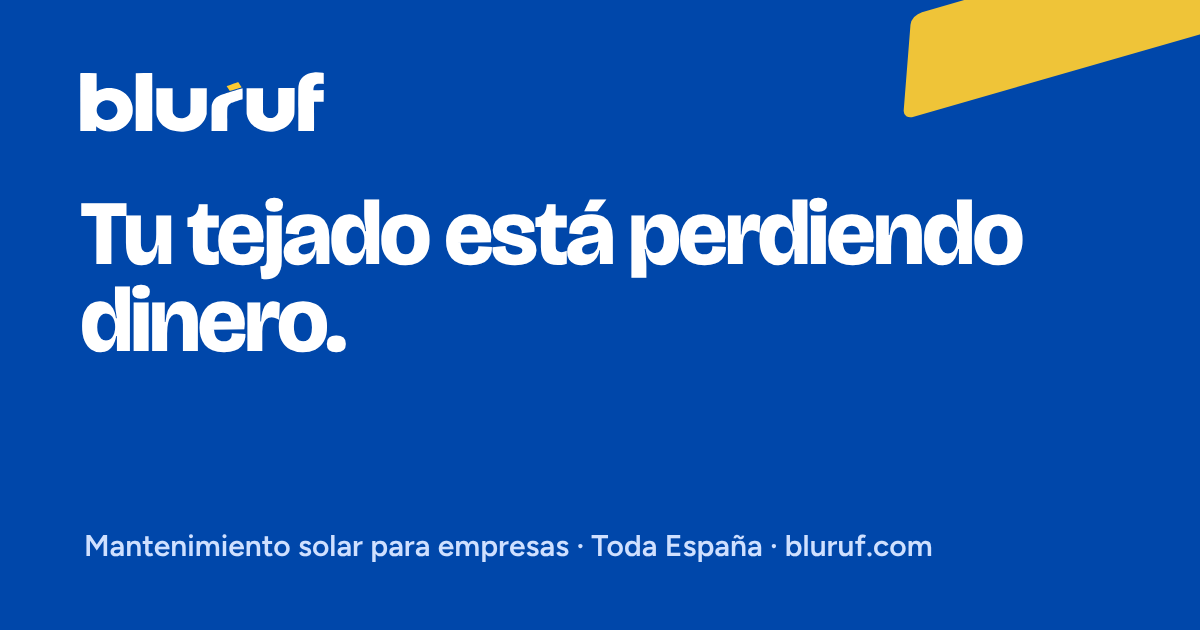
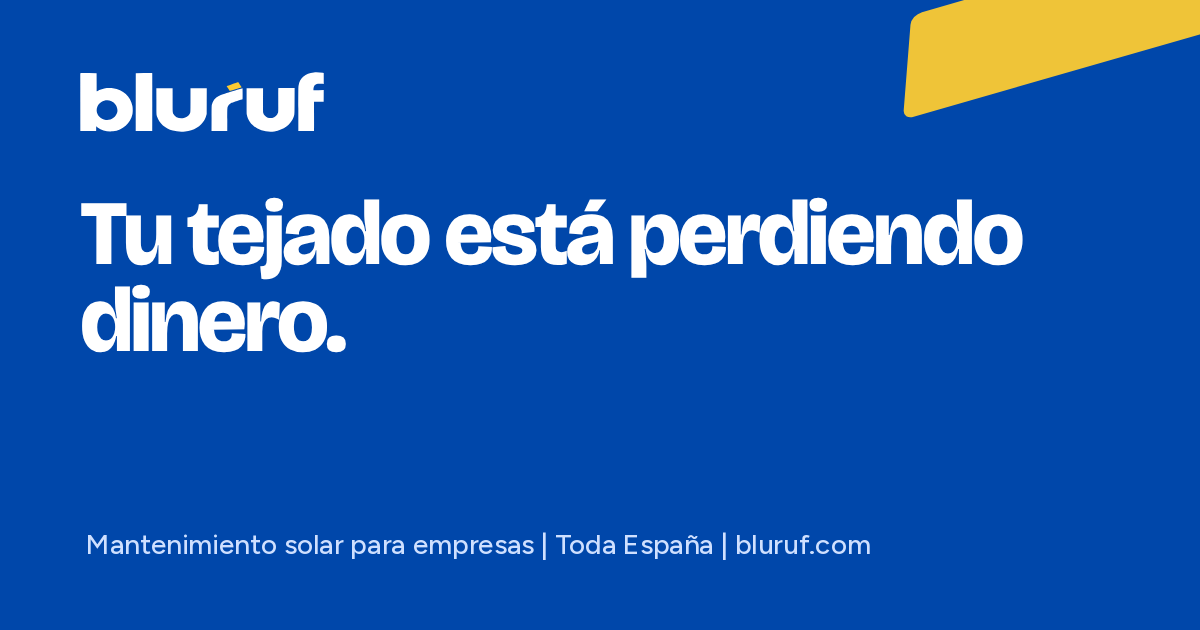
Add files via upload

Changed region(s): [[0.0617, 0.8444, 0.7708, 0.9048]]

diff --git a/index.html b/index.html
@@ -3,7 +3,7 @@
 <head>
 <meta charset="utf-8">
 <meta name="viewport" content="width=device-width, initial-scale=1">
-<title>BluRuf · Mantenimiento solar para empresas en España</title>
+<title>BluRuf | Mantenimiento solar para empresas en España</title>
 <meta name="description" content="Tu tejado solar está perdiendo dinero. Diagnóstico gratuito en 48 h, limpieza, inspección e informe para naves y empresas en toda España.">
 <link rel="canonical" href="https://bluruf.com/">
 <meta property="og:image:width" content="1200">
@@ -12,7 +12,7 @@
 <meta property="og:locale" content="es_ES">
 <meta property="og:site_name" content="BluRuf">
 <meta property="og:url" content="https://bluruf.com/">
-<meta property="og:title" content="BluRuf · Tu tejado solar está perdiendo dinero">
+<meta property="og:title" content="BluRuf | Tu tejado solar está perdiendo dinero">
 <meta property="og:description" content="Diagnóstico gratuito de tu instalación en 48 h. Mantenimiento solar para naves y empresas en toda España.">
 <meta property="og:image" content="https://bluruf.com/og.png">
 <meta name="twitter:card" content="summary_large_image">
@@ -211,7 +211,10 @@ form .btn{width:100%}
 @media(max-width:760px){.foot .logo{display:flex;justify-content:center}.fcols{grid-template-columns:minmax(0,1fr);gap:34px}.fbottom{justify-content:center;text-align:center}}
 </style>
 <script type="application/ld+json">
-{"@context":"https://schema.org","@type":"LocalBusiness","@id":"https://bluruf.com/#empresa","name":"BluRuf","url":"https://bluruf.com/","logo":"https://bluruf.com/img/logo.png","image":"https://bluruf.com/og.png","description":"Mantenimiento, limpieza e inspección de instalaciones solares para empresas en toda España. Diagnóstico gratuito en 48 h.","email":"info@bluruf.com","telephone":"+34 711 24 12 90","address":{"@type":"PostalAddress","streetAddress":"Calle Gobelas, 35, planta 1","postalCode":"28023","addressLocality":"Madrid","addressRegion":"Comunidad de Madrid","addressCountry":"ES"},"areaServed":{"@type":"Country","name":"España"},"alternateName":["Bluruf","BluRuf Solar","Bluruf mantenimiento solar"],"sameAs":["https://www.linkedin.com/company/bluruf"],"founder":{"@type":"Person","name":"Pablo Madrid de los Reyes"},"knowsAbout":["Limpieza de placas solares","Mantenimiento fotovoltaico","Inspección de instalaciones solares"]}
+{"@context":"https://schema.org","@type":"LocalBusiness","@id":"https://bluruf.com/#empresa","name":"BluRuf","url":"https://bluruf.com/","logo":"https://bluruf.com/img/logo.png","image":["https://bluruf.com/img/logo-cuadrado.png","https://bluruf.com/img/logo-4x3.png","https://bluruf.com/og.png"],"description":"Mantenimiento, limpieza e inspección de instalaciones solares para empresas en toda España. Diagnóstico gratuito en 48 h.","email":"info@bluruf.com","telephone":"+34 711 24 12 90","address":{"@type":"PostalAddress","streetAddress":"Calle Gobelas, 35, planta 1","postalCode":"28023","addressLocality":"Madrid","addressRegion":"Comunidad de Madrid","addressCountry":"ES"},"areaServed":{"@type":"Country","name":"España"},"alternateName":["Bluruf","BluRuf Solar","Bluruf mantenimiento solar"],"sameAs":["https://www.linkedin.com/company/bluruf"],"founder":{"@type":"Person","name":"Pablo Madrid de los Reyes"},"knowsAbout":["Limpieza de placas solares","Mantenimiento fotovoltaico","Inspección de instalaciones solares"]}
+</script>
+<script type="application/ld+json">
+{"@context":"https://schema.org","@type":"WebSite","@id":"https://bluruf.com/#web","name":"BluRuf","alternateName":["Bluruf","bluruf.com"],"url":"https://bluruf.com/","inLanguage":"es-ES","publisher":{"@id":"https://bluruf.com/#empresa"}}
 </script>
 </head>
 <body>
@@ -223,12 +226,12 @@ form .btn{width:100%}
 <main>
 <section class="hero"><div class="wrap">
   <h1 class="display">Tu tejado solar <span>está perdiendo dinero.</span></h1>
-  <p class="lead">Polvo, aves y contaminación restan producción a las placas de tu nave sin que nadie lo vea desde abajo. Lo medimos gratis y, si compensa, las dejamos como el primer día.</p>
+  <p class="lead">Polvo, aves y contaminación restan producción a las placas de tu nave sin que nadie lo vea desde abajo. En BluRuf lo medimos gratis y, si compensa, las dejamos como el primer día.</p>
   <div class="ctas">
     <a href="#contacto" class="btn btn-blue">Pedir diagnóstico gratis →</a>
     <a href="#calculadora" class="btn btn-line">Calcular cuánto pierdo</a>
   </div>
-  <p class="trust"><b>Gratis</b> · Sin compromiso · Resultado en <b>48 h</b></p>
+  <p class="trust"><b>Gratis</b> | Sin compromiso | Resultado en <b>48 h</b></p>
 
   <div class="stats">
     <div class="stat"><b>5–10 %</b><strong>de producción perdida por suciedad</strong><p>Rango habitual en cubiertas industriales sin limpieza periódica.</p></div>
@@ -301,7 +304,7 @@ form .btn{width:100%}
       <div class="p-sec"><span>Producción diaria (kWh)</span><em><span><i style="background:#B9C4DA"></i>Antes</span><span><i style="background:#0047AA"></i>Después</span><span><i style="background:#FCCB31"></i>Esperada</span></em></div>
       <svg viewBox="0 0 520 170" class="chart" role="img" aria-label="Producción diaria real frente a la esperada, antes y después de la limpieza"><line x1="28" x2="520" y1="150.0" y2="150.0" stroke="#E6EBF4"/><text x="22" y="153.0" text-anchor="end">0</text><line x1="28" x2="520" y1="111.1" y2="111.1" stroke="#E6EBF4"/><text x="22" y="114.1" text-anchor="end">200</text><line x1="28" x2="520" y1="72.3" y2="72.3" stroke="#E6EBF4"/><text x="22" y="75.3" text-anchor="end">400</text><line x1="28" x2="520" y1="33.4" y2="33.4" stroke="#E6EBF4"/><text x="22" y="36.4" text-anchor="end">600</text><rect x="32.0" y="42.4" width="27.1" height="107.6" rx="2" fill="#B9C4DA"/><rect x="67.1" y="45.3" width="27.1" height="104.7" rx="2" fill="#B9C4DA"/><rect x="102.3" y="38.5" width="27.1" height="111.5" rx="2" fill="#B9C4DA"/><rect x="137.4" y="36.3" width="27.1" height="113.7" rx="2" fill="#B9C4DA"/><rect x="172.6" y="41.2" width="27.1" height="108.8" rx="2" fill="#B9C4DA"/><rect x="207.7" y="46.4" width="27.1" height="103.6" rx="2" fill="#B9C4DA"/><rect x="242.9" y="39.1" width="27.1" height="110.9" rx="2" fill="#B9C4DA"/><rect x="278.0" y="24.1" width="27.1" height="125.9" rx="2" fill="#0047AA"/><rect x="313.1" y="29.0" width="27.1" height="121.0" rx="2" fill="#0047AA"/><rect x="348.3" y="25.5" width="27.1" height="124.5" rx="2" fill="#0047AA"/><rect x="383.4" y="30.9" width="27.1" height="119.1" rx="2" fill="#0047AA"/><rect x="418.6" y="26.8" width="27.1" height="123.2" rx="2" fill="#0047AA"/><rect x="453.7" y="24.3" width="27.1" height="125.7" rx="2" fill="#0047AA"/><rect x="488.9" y="29.9" width="27.1" height="120.1" rx="2" fill="#0047AA"/><path d="M45.6 31.1 L80.7 33.8 L115.9 25.7 L151.0 22.7 L186.1 27.6 L221.3 33.0 L256.4 24.1 L291.6 21.6 L326.7 26.2 L361.9 23.7 L397.0 28.0 L432.1 24.9 L467.3 22.0 L502.4 27.0" fill="none" stroke="#FCCB31" stroke-width="2.5" stroke-dasharray="5 4"/><line x1="274.0" x2="274.0" y1="8" y2="150" stroke="#061A47" stroke-width="1.2" stroke-dasharray="3 3"/><text x="279.0" y="16" class="mk">Limpieza</text><text x="45.6" y="165" text-anchor="middle">1</text><text x="80.7" y="165" text-anchor="middle">2</text><text x="115.9" y="165" text-anchor="middle">3</text><text x="151.0" y="165" text-anchor="middle">4</text><text x="186.1" y="165" text-anchor="middle">5</text><text x="221.3" y="165" text-anchor="middle">6</text><text x="256.4" y="165" text-anchor="middle">7</text><text x="291.6" y="165" text-anchor="middle">8</text><text x="326.7" y="165" text-anchor="middle">9</text><text x="361.9" y="165" text-anchor="middle">10</text><text x="397.0" y="165" text-anchor="middle">11</text><text x="432.1" y="165" text-anchor="middle">12</text><text x="467.3" y="165" text-anchor="middle">13</text><text x="502.4" y="165" text-anchor="middle">14</text></svg>
       <div class="p-two">
-        <div><div class="p-sec"><span>Mapa de inspección</span></div><svg viewBox="0 0 258 77" class="imap" role="img" aria-label="Mapa de módulos inspeccionados, con una incidencia marcada"><rect x="0" y="0" width="11" height="17" rx="1.5" fill="#0047AA" opacity="0.85"/><rect x="13" y="0" width="11" height="17" rx="1.5" fill="#0047AA" opacity="0.85"/><rect x="26" y="0" width="11" height="17" rx="1.5" fill="#0047AA" opacity="0.85"/><rect x="39" y="0" width="11" height="17" rx="1.5" fill="#0047AA" opacity="0.85"/><rect x="52" y="0" width="11" height="17" rx="1.5" fill="#0047AA" opacity="0.85"/><rect x="65" y="0" width="11" height="17" rx="1.5" fill="#0047AA" opacity="0.85"/><rect x="78" y="0" width="11" height="17" rx="1.5" fill="#0047AA" opacity="0.85"/><rect x="91" y="0" width="11" height="17" rx="1.5" fill="#0047AA" opacity="0.85"/><rect x="104" y="0" width="11" height="17" rx="1.5" fill="#0047AA" opacity="0.85"/><rect x="117" y="0" width="11" height="17" rx="1.5" fill="#0047AA" opacity="0.85"/><rect x="130" y="0" width="11" height="17" rx="1.5" fill="#0047AA" opacity="0.85"/><rect x="143" y="0" width="11" height="17" rx="1.5" fill="#0047AA" opacity="0.85"/><rect x="156" y="0" width="11" height="17" rx="1.5" fill="#0047AA" opacity="0.85"/><rect x="169" y="0" width="11" height="17" rx="1.5" fill="#0047AA" opacity="0.85"/><rect x="182" y="0" width="11" height="17" rx="1.5" fill="#0047AA" opacity="0.85"/><rect x="195" y="0" width="11" height="17" rx="1.5" fill="#0047AA" opacity="0.85"/><rect x="208" y="0" width="11" height="17" rx="1.5" fill="#0047AA" opacity="0.85"/><rect x="221" y="0" width="11" height="17" rx="1.5" fill="#0047AA" opacity="0.85"/><rect x="234" y="0" width="11" height="17" rx="1.5" fill="#0047AA" opacity="0.85"/><rect x="247" y="0" width="11" height="17" rx="1.5" fill="#0047AA" opacity="0.85"/><rect x="0" y="20" width="11" height="17" rx="1.5" fill="#0047AA" opacity="0.85"/><rect x="13" y="20" width="11" height="17" rx="1.5" fill="#0047AA" opacity="0.85"/><rect x="26" y="20" width="11" height="17" rx="1.5" fill="#0047AA" opacity="0.85"/><rect x="39" y="20" width="11" height="17" rx="1.5" fill="#0047AA" opacity="0.85"/><rect x="52" y="20" width="11" height="17" rx="1.5" fill="#0047AA" opacity="0.85"/><rect x="65" y="20" width="11" height="17" rx="1.5" fill="#0047AA" opacity="0.85"/><rect x="78" y="20" width="11" height="17" rx="1.5" fill="#0047AA" opacity="0.85"/><rect x="91" y="20" width="11" height="17" rx="1.5" fill="#0047AA" opacity="0.85"/><rect x="104" y="20" width="11" height="17" rx="1.5" fill="#0047AA" opacity="0.85"/><rect x="117" y="20" width="11" height="17" rx="1.5" fill="#0047AA" opacity="0.85"/><rect x="130" y="20" width="11" height="17" rx="1.5" fill="#0047AA" opacity="0.85"/><rect x="143" y="20" width="11" height="17" rx="1.5" fill="#0047AA" opacity="0.85"/><rect x="156" y="20" width="11" height="17" rx="1.5" fill="#0047AA" opacity="0.85"/><rect x="169" y="20" width="11" height="17" rx="1.5" fill="#0047AA" opacity="0.85"/><rect x="182" y="20" width="11" height="17" rx="1.5" fill="#0047AA" opacity="0.85"/><rect x="195" y="20" width="11" height="17" rx="1.5" fill="#0047AA" opacity="0.85"/><rect x="208" y="20" width="11" height="17" rx="1.5" fill="#0047AA" opacity="0.85"/><rect x="221" y="20" width="11" height="17" rx="1.5" fill="#0047AA" opacity="0.85"/><rect x="234" y="20" width="11" height="17" rx="1.5" fill="#0047AA" opacity="0.85"/><rect x="247" y="20" width="11" height="17" rx="1.5" fill="#0047AA" opacity="0.85"/><rect x="0" y="40" width="11" height="17" rx="1.5" fill="#0047AA" opacity="0.85"/><rect x="13" y="40" width="11" height="17" rx="1.5" fill="#0047AA" opacity="0.85"/><rect x="26" y="40" width="11" height="17" rx="1.5" fill="#0047AA" opacity="0.85"/><rect x="39" y="40" width="11" height="17" rx="1.5" fill="#0047AA" opacity="0.85"/><rect x="52" y="40" width="11" height="17" rx="1.5" fill="#0047AA" opacity="0.85"/><rect x="65" y="40" width="11" height="17" rx="1.5" fill="#0047AA" opacity="0.85"/><rect x="78" y="40" width="11" height="17" rx="1.5" fill="#0047AA" opacity="0.85"/><rect x="91" y="40" width="11" height="17" rx="1.5" fill="#0047AA" opacity="0.85"/><rect x="104" y="40" width="11" height="17" rx="1.5" fill="#0047AA" opacity="0.85"/><rect x="117" y="40" width="11" height="17" rx="1.5" fill="#0047AA" opacity="0.85"/><rect x="130" y="40" width="11" height="17" rx="1.5" fill="#0047AA" opacity="0.85"/><rect x="143" y="40" width="11" height="17" rx="1.5" fill="#FCCB31" opacity="1"/><rect x="156" y="40" width="11" height="17" rx="1.5" fill="#0047AA" opacity="0.85"/><rect x="169" y="40" width="11" height="17" rx="1.5" fill="#0047AA" opacity="0.85"/><rect x="182" y="40" width="11" height="17" rx="1.5" fill="#0047AA" opacity="0.85"/><rect x="195" y="40" width="11" height="17" rx="1.5" fill="#0047AA" opacity="0.85"/><rect x="208" y="40" width="11" height="17" rx="1.5" fill="#0047AA" opacity="0.85"/><rect x="221" y="40" width="11" height="17" rx="1.5" fill="#0047AA" opacity="0.85"/><rect x="234" y="40" width="11" height="17" rx="1.5" fill="#0047AA" opacity="0.85"/><rect x="247" y="40" width="11" height="17" rx="1.5" fill="#0047AA" opacity="0.85"/><rect x="0" y="60" width="11" height="17" rx="1.5" fill="#0047AA" opacity="0.85"/><rect x="13" y="60" width="11" height="17" rx="1.5" fill="#0047AA" opacity="0.85"/><rect x="26" y="60" width="11" height="17" rx="1.5" fill="#0047AA" opacity="0.85"/><rect x="39" y="60" width="11" height="17" rx="1.5" fill="#0047AA" opacity="0.85"/><rect x="52" y="60" width="11" height="17" rx="1.5" fill="#0047AA" opacity="0.85"/><rect x="65" y="60" width="11" height="17" rx="1.5" fill="#0047AA" opacity="0.85"/><rect x="78" y="60" width="11" height="17" rx="1.5" fill="#0047AA" opacity="0.85"/><rect x="91" y="60" width="11" height="17" rx="1.5" fill="#0047AA" opacity="0.85"/><rect x="104" y="60" width="11" height="17" rx="1.5" fill="#0047AA" opacity="0.85"/><rect x="117" y="60" width="11" height="17" rx="1.5" fill="#0047AA" opacity="0.85"/><rect x="130" y="60" width="11" height="17" rx="1.5" fill="#0047AA" opacity="0.85"/><rect x="143" y="60" width="11" height="17" rx="1.5" fill="#0047AA" opacity="0.85"/><rect x="156" y="60" width="11" height="17" rx="1.5" fill="#0047AA" opacity="0.85"/><rect x="169" y="60" width="11" height="17" rx="1.5" fill="#0047AA" opacity="0.85"/><rect x="182" y="60" width="11" height="17" rx="1.5" fill="#0047AA" opacity="0.85"/><rect x="195" y="60" width="11" height="17" rx="1.5" fill="#0047AA" opacity="0.85"/><rect x="208" y="60" width="11" height="17" rx="1.5" fill="#0047AA" opacity="0.85"/><rect x="221" y="60" width="11" height="17" rx="1.5" fill="#0047AA" opacity="0.85"/><rect x="234" y="60" width="11" height="17" rx="1.5" fill="#0047AA" opacity="0.85"/><rect x="247" y="60" width="11" height="17" rx="1.5" fill="#0047AA" opacity="0.85"/></svg><div class="cap">Fila 3 · módulo 12: conector con holgura.</div></div>
+        <div><div class="p-sec"><span>Mapa de inspección</span></div><svg viewBox="0 0 258 77" class="imap" role="img" aria-label="Mapa de módulos inspeccionados, con una incidencia marcada"><rect x="0" y="0" width="11" height="17" rx="1.5" fill="#0047AA" opacity="0.85"/><rect x="13" y="0" width="11" height="17" rx="1.5" fill="#0047AA" opacity="0.85"/><rect x="26" y="0" width="11" height="17" rx="1.5" fill="#0047AA" opacity="0.85"/><rect x="39" y="0" width="11" height="17" rx="1.5" fill="#0047AA" opacity="0.85"/><rect x="52" y="0" width="11" height="17" rx="1.5" fill="#0047AA" opacity="0.85"/><rect x="65" y="0" width="11" height="17" rx="1.5" fill="#0047AA" opacity="0.85"/><rect x="78" y="0" width="11" height="17" rx="1.5" fill="#0047AA" opacity="0.85"/><rect x="91" y="0" width="11" height="17" rx="1.5" fill="#0047AA" opacity="0.85"/><rect x="104" y="0" width="11" height="17" rx="1.5" fill="#0047AA" opacity="0.85"/><rect x="117" y="0" width="11" height="17" rx="1.5" fill="#0047AA" opacity="0.85"/><rect x="130" y="0" width="11" height="17" rx="1.5" fill="#0047AA" opacity="0.85"/><rect x="143" y="0" width="11" height="17" rx="1.5" fill="#0047AA" opacity="0.85"/><rect x="156" y="0" width="11" height="17" rx="1.5" fill="#0047AA" opacity="0.85"/><rect x="169" y="0" width="11" height="17" rx="1.5" fill="#0047AA" opacity="0.85"/><rect x="182" y="0" width="11" height="17" rx="1.5" fill="#0047AA" opacity="0.85"/><rect x="195" y="0" width="11" height="17" rx="1.5" fill="#0047AA" opacity="0.85"/><rect x="208" y="0" width="11" height="17" rx="1.5" fill="#0047AA" opacity="0.85"/><rect x="221" y="0" width="11" height="17" rx="1.5" fill="#0047AA" opacity="0.85"/><rect x="234" y="0" width="11" height="17" rx="1.5" fill="#0047AA" opacity="0.85"/><rect x="247" y="0" width="11" height="17" rx="1.5" fill="#0047AA" opacity="0.85"/><rect x="0" y="20" width="11" height="17" rx="1.5" fill="#0047AA" opacity="0.85"/><rect x="13" y="20" width="11" height="17" rx="1.5" fill="#0047AA" opacity="0.85"/><rect x="26" y="20" width="11" height="17" rx="1.5" fill="#0047AA" opacity="0.85"/><rect x="39" y="20" width="11" height="17" rx="1.5" fill="#0047AA" opacity="0.85"/><rect x="52" y="20" width="11" height="17" rx="1.5" fill="#0047AA" opacity="0.85"/><rect x="65" y="20" width="11" height="17" rx="1.5" fill="#0047AA" opacity="0.85"/><rect x="78" y="20" width="11" height="17" rx="1.5" fill="#0047AA" opacity="0.85"/><rect x="91" y="20" width="11" height="17" rx="1.5" fill="#0047AA" opacity="0.85"/><rect x="104" y="20" width="11" height="17" rx="1.5" fill="#0047AA" opacity="0.85"/><rect x="117" y="20" width="11" height="17" rx="1.5" fill="#0047AA" opacity="0.85"/><rect x="130" y="20" width="11" height="17" rx="1.5" fill="#0047AA" opacity="0.85"/><rect x="143" y="20" width="11" height="17" rx="1.5" fill="#0047AA" opacity="0.85"/><rect x="156" y="20" width="11" height="17" rx="1.5" fill="#0047AA" opacity="0.85"/><rect x="169" y="20" width="11" height="17" rx="1.5" fill="#0047AA" opacity="0.85"/><rect x="182" y="20" width="11" height="17" rx="1.5" fill="#0047AA" opacity="0.85"/><rect x="195" y="20" width="11" height="17" rx="1.5" fill="#0047AA" opacity="0.85"/><rect x="208" y="20" width="11" height="17" rx="1.5" fill="#0047AA" opacity="0.85"/><rect x="221" y="20" width="11" height="17" rx="1.5" fill="#0047AA" opacity="0.85"/><rect x="234" y="20" width="11" height="17" rx="1.5" fill="#0047AA" opacity="0.85"/><rect x="247" y="20" width="11" height="17" rx="1.5" fill="#0047AA" opacity="0.85"/><rect x="0" y="40" width="11" height="17" rx="1.5" fill="#0047AA" opacity="0.85"/><rect x="13" y="40" width="11" height="17" rx="1.5" fill="#0047AA" opacity="0.85"/><rect x="26" y="40" width="11" height="17" rx="1.5" fill="#0047AA" opacity="0.85"/><rect x="39" y="40" width="11" height="17" rx="1.5" fill="#0047AA" opacity="0.85"/><rect x="52" y="40" width="11" height="17" rx="1.5" fill="#0047AA" opacity="0.85"/><rect x="65" y="40" width="11" height="17" rx="1.5" fill="#0047AA" opacity="0.85"/><rect x="78" y="40" width="11" height="17" rx="1.5" fill="#0047AA" opacity="0.85"/><rect x="91" y="40" width="11" height="17" rx="1.5" fill="#0047AA" opacity="0.85"/><rect x="104" y="40" width="11" height="17" rx="1.5" fill="#0047AA" opacity="0.85"/><rect x="117" y="40" width="11" height="17" rx="1.5" fill="#0047AA" opacity="0.85"/><rect x="130" y="40" width="11" height="17" rx="1.5" fill="#0047AA" opacity="0.85"/><rect x="143" y="40" width="11" height="17" rx="1.5" fill="#FCCB31" opacity="1"/><rect x="156" y="40" width="11" height="17" rx="1.5" fill="#0047AA" opacity="0.85"/><rect x="169" y="40" width="11" height="17" rx="1.5" fill="#0047AA" opacity="0.85"/><rect x="182" y="40" width="11" height="17" rx="1.5" fill="#0047AA" opacity="0.85"/><rect x="195" y="40" width="11" height="17" rx="1.5" fill="#0047AA" opacity="0.85"/><rect x="208" y="40" width="11" height="17" rx="1.5" fill="#0047AA" opacity="0.85"/><rect x="221" y="40" width="11" height="17" rx="1.5" fill="#0047AA" opacity="0.85"/><rect x="234" y="40" width="11" height="17" rx="1.5" fill="#0047AA" opacity="0.85"/><rect x="247" y="40" width="11" height="17" rx="1.5" fill="#0047AA" opacity="0.85"/><rect x="0" y="60" width="11" height="17" rx="1.5" fill="#0047AA" opacity="0.85"/><rect x="13" y="60" width="11" height="17" rx="1.5" fill="#0047AA" opacity="0.85"/><rect x="26" y="60" width="11" height="17" rx="1.5" fill="#0047AA" opacity="0.85"/><rect x="39" y="60" width="11" height="17" rx="1.5" fill="#0047AA" opacity="0.85"/><rect x="52" y="60" width="11" height="17" rx="1.5" fill="#0047AA" opacity="0.85"/><rect x="65" y="60" width="11" height="17" rx="1.5" fill="#0047AA" opacity="0.85"/><rect x="78" y="60" width="11" height="17" rx="1.5" fill="#0047AA" opacity="0.85"/><rect x="91" y="60" width="11" height="17" rx="1.5" fill="#0047AA" opacity="0.85"/><rect x="104" y="60" width="11" height="17" rx="1.5" fill="#0047AA" opacity="0.85"/><rect x="117" y="60" width="11" height="17" rx="1.5" fill="#0047AA" opacity="0.85"/><rect x="130" y="60" width="11" height="17" rx="1.5" fill="#0047AA" opacity="0.85"/><rect x="143" y="60" width="11" height="17" rx="1.5" fill="#0047AA" opacity="0.85"/><rect x="156" y="60" width="11" height="17" rx="1.5" fill="#0047AA" opacity="0.85"/><rect x="169" y="60" width="11" height="17" rx="1.5" fill="#0047AA" opacity="0.85"/><rect x="182" y="60" width="11" height="17" rx="1.5" fill="#0047AA" opacity="0.85"/><rect x="195" y="60" width="11" height="17" rx="1.5" fill="#0047AA" opacity="0.85"/><rect x="208" y="60" width="11" height="17" rx="1.5" fill="#0047AA" opacity="0.85"/><rect x="221" y="60" width="11" height="17" rx="1.5" fill="#0047AA" opacity="0.85"/><rect x="234" y="60" width="11" height="17" rx="1.5" fill="#0047AA" opacity="0.85"/><rect x="247" y="60" width="11" height="17" rx="1.5" fill="#0047AA" opacity="0.85"/></svg><div class="cap">Fila 3 | módulo 12: conector con holgura.</div></div>
         <div><div class="p-sec"><span>Checklist</span></div>
           <table class="ck">
             <tr><td>Limpieza de módulos</td><td class="ok">✓ Completada</td></tr>
@@ -398,7 +401,7 @@ form .btn{width:100%}
         <li><a href="/cookies.html">Política de cookies</a></li>
       </ul></div>
     </div>
-    <div class="fbottom"><span>© 2026 BluRuf</span><span>Bluruf (BluRuf) · Mantenimiento solar para empresas · España</span></div>
+    <div class="fbottom"><span>© 2026 BluRuf</span><span>BluRuf | Mantenimiento solar para empresas | España</span></div>
   </div>
 </footer>
 

diff --git a/red.html b/red.html
@@ -3,7 +3,7 @@
 <head>
 <meta charset="utf-8">
 <meta name="viewport" content="width=device-width, initial-scale=1">
-<title>Colabora con BluRuf · Red de partners de limpieza de placas solares</title>
+<title>Colabora con BluRuf | Red de partners de limpieza de placas solares</title>
 <meta name="description" content="Recibe trabajos de limpieza de placas solares en naves de tu zona. Sin buscar clientes, sin cuotas y sin exclusividad. En toda España.">
 
 <link rel="canonical" href="https://bluruf.com/red.html">
@@ -11,7 +11,7 @@
 <meta property="og:locale" content="es_ES">
 <meta property="og:site_name" content="BluRuf">
 <meta property="og:url" content="https://bluruf.com/red.html">
-<meta property="og:title" content="Colabora con BluRuf · Red de partners de limpieza de placas solares">
+<meta property="og:title" content="Colabora con BluRuf | Red de partners de limpieza de placas solares">
 <meta property="og:description" content="Recibe trabajos de limpieza de placas solares en naves de tu zona. Sin buscar clientes, sin cuotas y sin exclusividad. En toda España.">
 <meta property="og:image" content="https://bluruf.com/og.png">
 <meta property="og:image:width" content="1200">
@@ -133,7 +133,7 @@ legend{font-weight:700;font-size:15px;margin-bottom:8px}
   <h1 class="display">Colabora con BluRuf. <span>Crece con nuestra red.</span></h1>
   <div class="r-row">
     <p>Forma parte de la red de empresas que cuidan las instalaciones solares de las naves de toda España. Nosotros traemos los proyectos; tu equipo pone la experiencia.</p>
-    <div><a href="#unirme" class="btn btn-sun">Quiero colaborar</a><small>Sin cuotas · Sin exclusividad · En toda España</small></div>
+    <div><a href="#unirme" class="btn btn-sun">Quiero colaborar</a><small>Sin cuotas | Sin exclusividad | En toda España</small></div>
   </div>
 </div></section>
 
@@ -175,7 +175,7 @@ legend{font-weight:700;font-size:15px;margin-bottom:8px}
 
 <section class="join" id="unirme"><div class="wrap joingrid">
   <div>
-    <p class="kicker" style="color:var(--sun)">Red de partners · España</p>
+    <p class="kicker" style="color:var(--sun)">Red de partners | España</p>
     <h2>Los tejados de España te están esperando.</h2>
     <p class="lead">Déjanos tus datos y te llamamos en 48 h.</p>
     <p class="lead" style="margin-top:24px">¿Dudas? <a href="mailto:info@bluruf.com" style="color:#fff">info@bluruf.com</a></p>
@@ -232,7 +232,7 @@ legend{font-weight:700;font-size:15px;margin-bottom:8px}
         <li><a href="/cookies.html">Política de cookies</a></li>
       </ul></div>
     </div>
-    <div class="fbottom"><span>© 2026 BluRuf</span><span>Mantenimiento solar para empresas · España</span></div>
+    <div class="fbottom"><span>© 2026 BluRuf</span><span>Mantenimiento solar para empresas | España</span></div>
   </div>
 </footer>
 </body>

diff --git a/colabora.html b/colabora.html
@@ -3,7 +3,7 @@
 <head>
 <meta charset="utf-8">
 <meta name="viewport" content="width=device-width, initial-scale=1">
-<title>Colabora con BluRuf · Instaladores, ingenierías y talento</title>
+<title>Colabora con BluRuf | Instaladores, ingenierías y talento</title>
 <meta name="description" content="Instaladores, ingenierías y profesionales: colabora con BluRuf, mantenimiento solar para empresas en toda España.">
 
 <link rel="canonical" href="https://bluruf.com/colabora.html">
@@ -11,7 +11,7 @@
 <meta property="og:locale" content="es_ES">
 <meta property="og:site_name" content="BluRuf">
 <meta property="og:url" content="https://bluruf.com/colabora.html">
-<meta property="og:title" content="Colabora con BluRuf · Instaladores, ingenierías y talento">
+<meta property="og:title" content="Colabora con BluRuf | Instaladores, ingenierías y talento">
 <meta property="og:description" content="Instaladores, ingenierías y profesionales: colabora con BluRuf, mantenimiento solar para empresas en toda España.">
 <meta property="og:image" content="https://bluruf.com/og.png">
 <meta property="og:image:width" content="1200">
@@ -301,7 +301,7 @@ legend{font-weight:700;font-size:15px;margin-bottom:8px}
         <li><a href="/cookies.html">Política de cookies</a></li>
       </ul></div>
     </div>
-    <div class="fbottom"><span>© 2026 BluRuf</span><span>Mantenimiento solar para empresas · España</span></div>
+    <div class="fbottom"><span>© 2026 BluRuf</span><span>Mantenimiento solar para empresas | España</span></div>
   </div>
 </footer>
 </body>

diff --git a/gracias.html b/gracias.html
@@ -3,7 +3,7 @@
 <head>
 <meta charset="utf-8">
 <meta name="viewport" content="width=device-width, initial-scale=1">
-<title>Solicitud recibida · BluRuf</title>
+<title>Solicitud recibida | BluRuf</title>
 <meta name="description" content="Hemos recibido tu solicitud.">
 <meta name="robots" content="noindex">
 <link rel="canonical" href="https://bluruf.com/gracias.html">
@@ -11,7 +11,7 @@
 <meta property="og:locale" content="es_ES">
 <meta property="og:site_name" content="BluRuf">
 <meta property="og:url" content="https://bluruf.com/gracias.html">
-<meta property="og:title" content="Solicitud recibida · BluRuf">
+<meta property="og:title" content="Solicitud recibida | BluRuf">
 <meta property="og:description" content="Hemos recibido tu solicitud.">
 <meta property="og:image" content="https://bluruf.com/og.png">
 <meta property="og:image:width" content="1200">
@@ -118,7 +118,7 @@ if(T[f]){h.textContent=T[f][0];m.innerHTML=T[f][1];}})();
         <li><a href="/cookies.html">Política de cookies</a></li>
       </ul></div>
     </div>
-    <div class="fbottom"><span>© 2026 BluRuf</span><span>Mantenimiento solar para empresas · España</span></div>
+    <div class="fbottom"><span>© 2026 BluRuf</span><span>Mantenimiento solar para empresas | España</span></div>
   </div>
 </footer>
 </body>

diff --git a/privacidad.html b/privacidad.html
@@ -3,7 +3,7 @@
 <head>
 <meta charset="utf-8">
 <meta name="viewport" content="width=device-width, initial-scale=1">
-<title>Política de privacidad · BluRuf</title>
+<title>Política de privacidad | BluRuf</title>
 <meta name="robots" content="noindex, follow">
 <link rel="canonical" href="https://bluruf.com/privacidad.html">
 <link rel="preload" href="/fonts/bricolage.woff2" as="font" type="font/woff2" crossorigin>
@@ -153,7 +153,7 @@ th{background:var(--navy);color:#fff;font-weight:600}
         <li><a href="/cookies.html">Política de cookies</a></li>
       </ul></div>
     </div>
-    <div class="fbottom"><span>© 2026 BluRuf</span><span>Mantenimiento solar para empresas · España</span></div>
+    <div class="fbottom"><span>© 2026 BluRuf</span><span>Mantenimiento solar para empresas | España</span></div>
   </div>
 </footer>
 </body>

diff --git a/cookies.html b/cookies.html
@@ -3,7 +3,7 @@
 <head>
 <meta charset="utf-8">
 <meta name="viewport" content="width=device-width, initial-scale=1">
-<title>Política de cookies · BluRuf</title>
+<title>Política de cookies | BluRuf</title>
 <meta name="robots" content="noindex, follow">
 <link rel="canonical" href="https://bluruf.com/cookies.html">
 <link rel="preload" href="/fonts/bricolage.woff2" as="font" type="font/woff2" crossorigin>
@@ -114,7 +114,7 @@ th{background:var(--navy);color:#fff;font-weight:600}
         <li><a href="/cookies.html">Política de cookies</a></li>
       </ul></div>
     </div>
-    <div class="fbottom"><span>© 2026 BluRuf</span><span>Mantenimiento solar para empresas · España</span></div>
+    <div class="fbottom"><span>© 2026 BluRuf</span><span>Mantenimiento solar para empresas | España</span></div>
   </div>
 </footer>
 </body>

diff --git a/aviso-legal.html b/aviso-legal.html
@@ -3,7 +3,7 @@
 <head>
 <meta charset="utf-8">
 <meta name="viewport" content="width=device-width, initial-scale=1">
-<title>Aviso legal · BluRuf</title>
+<title>Aviso legal | BluRuf</title>
 <meta name="robots" content="noindex, follow">
 <link rel="canonical" href="https://bluruf.com/aviso-legal.html">
 <link rel="preload" href="/fonts/bricolage.woff2" as="font" type="font/woff2" crossorigin>
@@ -130,7 +130,7 @@ th{background:var(--navy);color:#fff;font-weight:600}
         <li><a href="/cookies.html">Política de cookies</a></li>
       </ul></div>
     </div>
-    <div class="fbottom"><span>© 2026 BluRuf</span><span>Mantenimiento solar para empresas · España</span></div>
+    <div class="fbottom"><span>© 2026 BluRuf</span><span>Mantenimiento solar para empresas | España</span></div>
   </div>
 </footer>
 </body>
